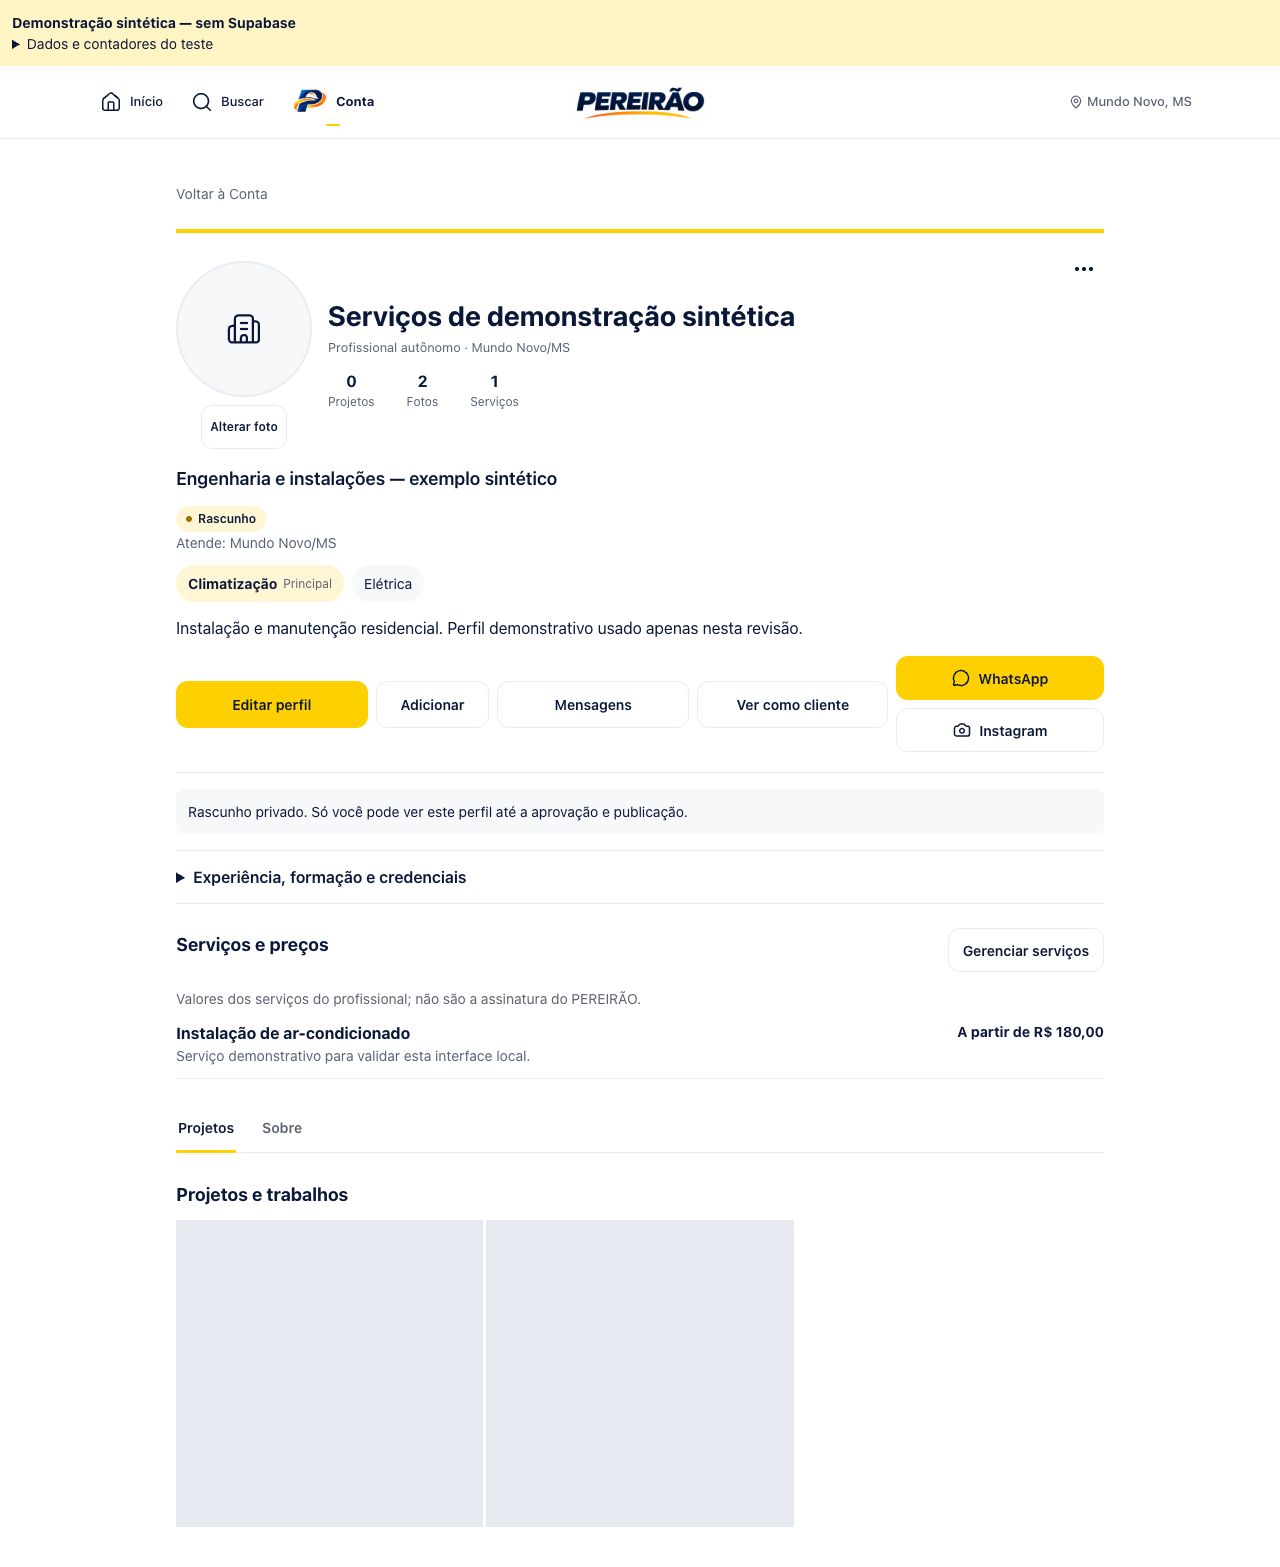
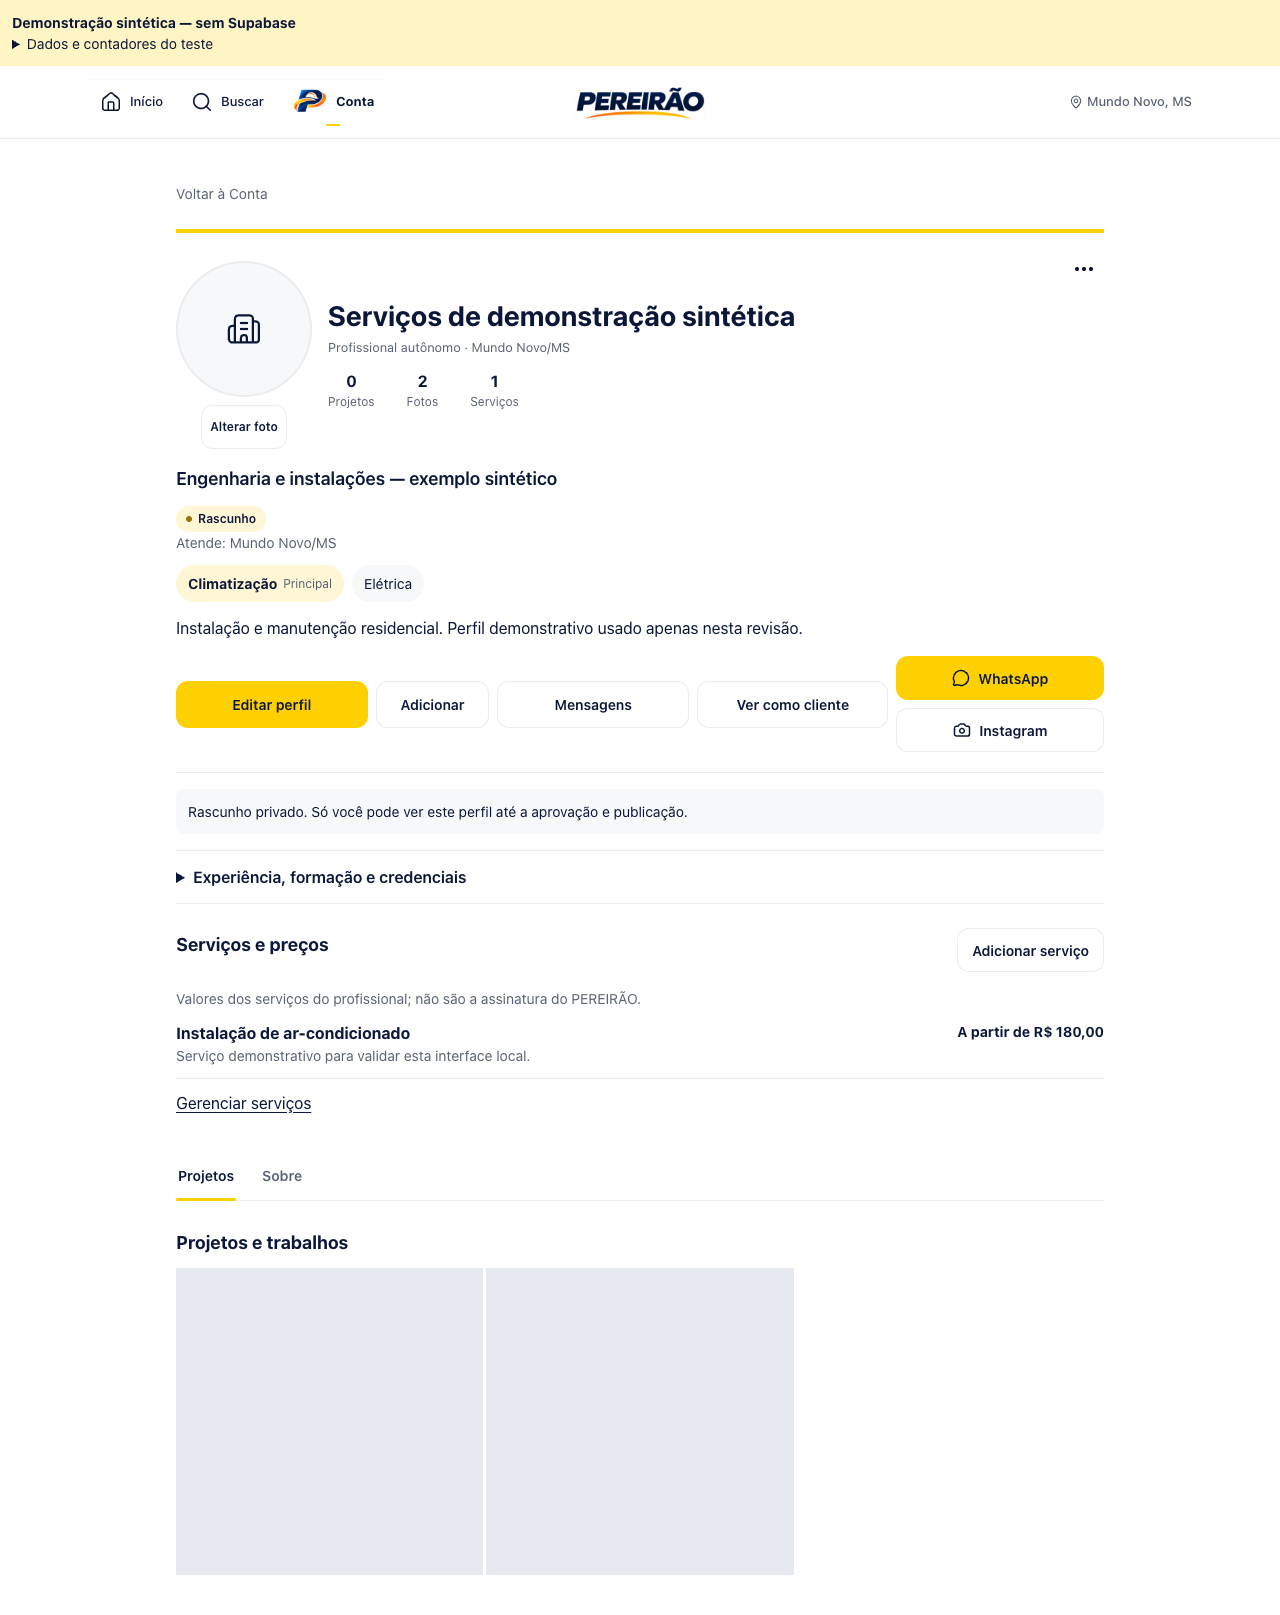
Keep Add service visible on the professional profile

diff --git a/src/pages/ProfilePreviewPage.tsx b/src/pages/ProfilePreviewPage.tsx
@@ -97,7 +97,7 @@ export function ProfilePreviewPage({ businessIdOverride, embedded = false, readO
       {contentError && <p className="field-help" role="status">Serviços e fotografias indisponíveis nesta prévia. Seus dados de perfil continuam visíveis.</p>}
       {presentation.error && <p role="status">Informações adicionais indisponíveis no momento.</p>}
       <PresentationSections data={presentation.data} company={info.type === 'empresa'} />
-      <section className="public-profile-section" aria-label="Serviços e preços"><div className="work-toolbar"><h2>Serviços e preços</h2>{!readOnly && <Link className="button button--secondary" to={`/conta/profissional/${businessId}/servicos`}>Gerenciar serviços</Link>}</div><p className="field-help">Valores dos serviços do profissional; não são a assinatura do PEREIRÃO.</p>{services.length ? <ul className="public-services">{services.map(service => <li key={service.id}><div><h3>{service.name}</h3>{service.description && <p>{service.description}</p>}</div><strong>{formatPrice(service.pricing_type, service.price_amount_cents)}</strong></li>)}</ul> : <p className="field-help">Nenhum serviço cadastrado.</p>}</section>
+      <section className="public-profile-section" aria-label="Serviços e preços"><div className="work-toolbar"><h2>Serviços e preços</h2>{!readOnly && <Link className="button button--secondary" to={`/conta/profissional/${businessId}/servicos?acao=novo`}>Adicionar serviço</Link>}</div><p className="field-help">Valores dos serviços do profissional; não são a assinatura do PEREIRÃO.</p>{services.length ? <ul className="public-services">{services.map(service => <li key={service.id}><div><h3>{service.name}</h3>{service.description && <p>{service.description}</p>}</div><strong>{formatPrice(service.pricing_type, service.price_amount_cents)}</strong></li>)}</ul> : <p className="field-help">Nenhum serviço cadastrado.</p>}{!readOnly && <Link className="text-link" to={`/conta/profissional/${businessId}/servicos`}>Gerenciar serviços</Link>}</section>
       <SectionTabs label="Conteúdo do perfil" sections={[{ id: 'trabalhos', label: 'Projetos', content: <section className="public-profile-section" aria-label="Projetos e portfólio"><h2>Projetos e trabalhos</h2>
         {posts.length > 0 && <ul className="owner-posts">{posts.map(post => <li key={post.id}>
           <div className="owner-posts__project">
